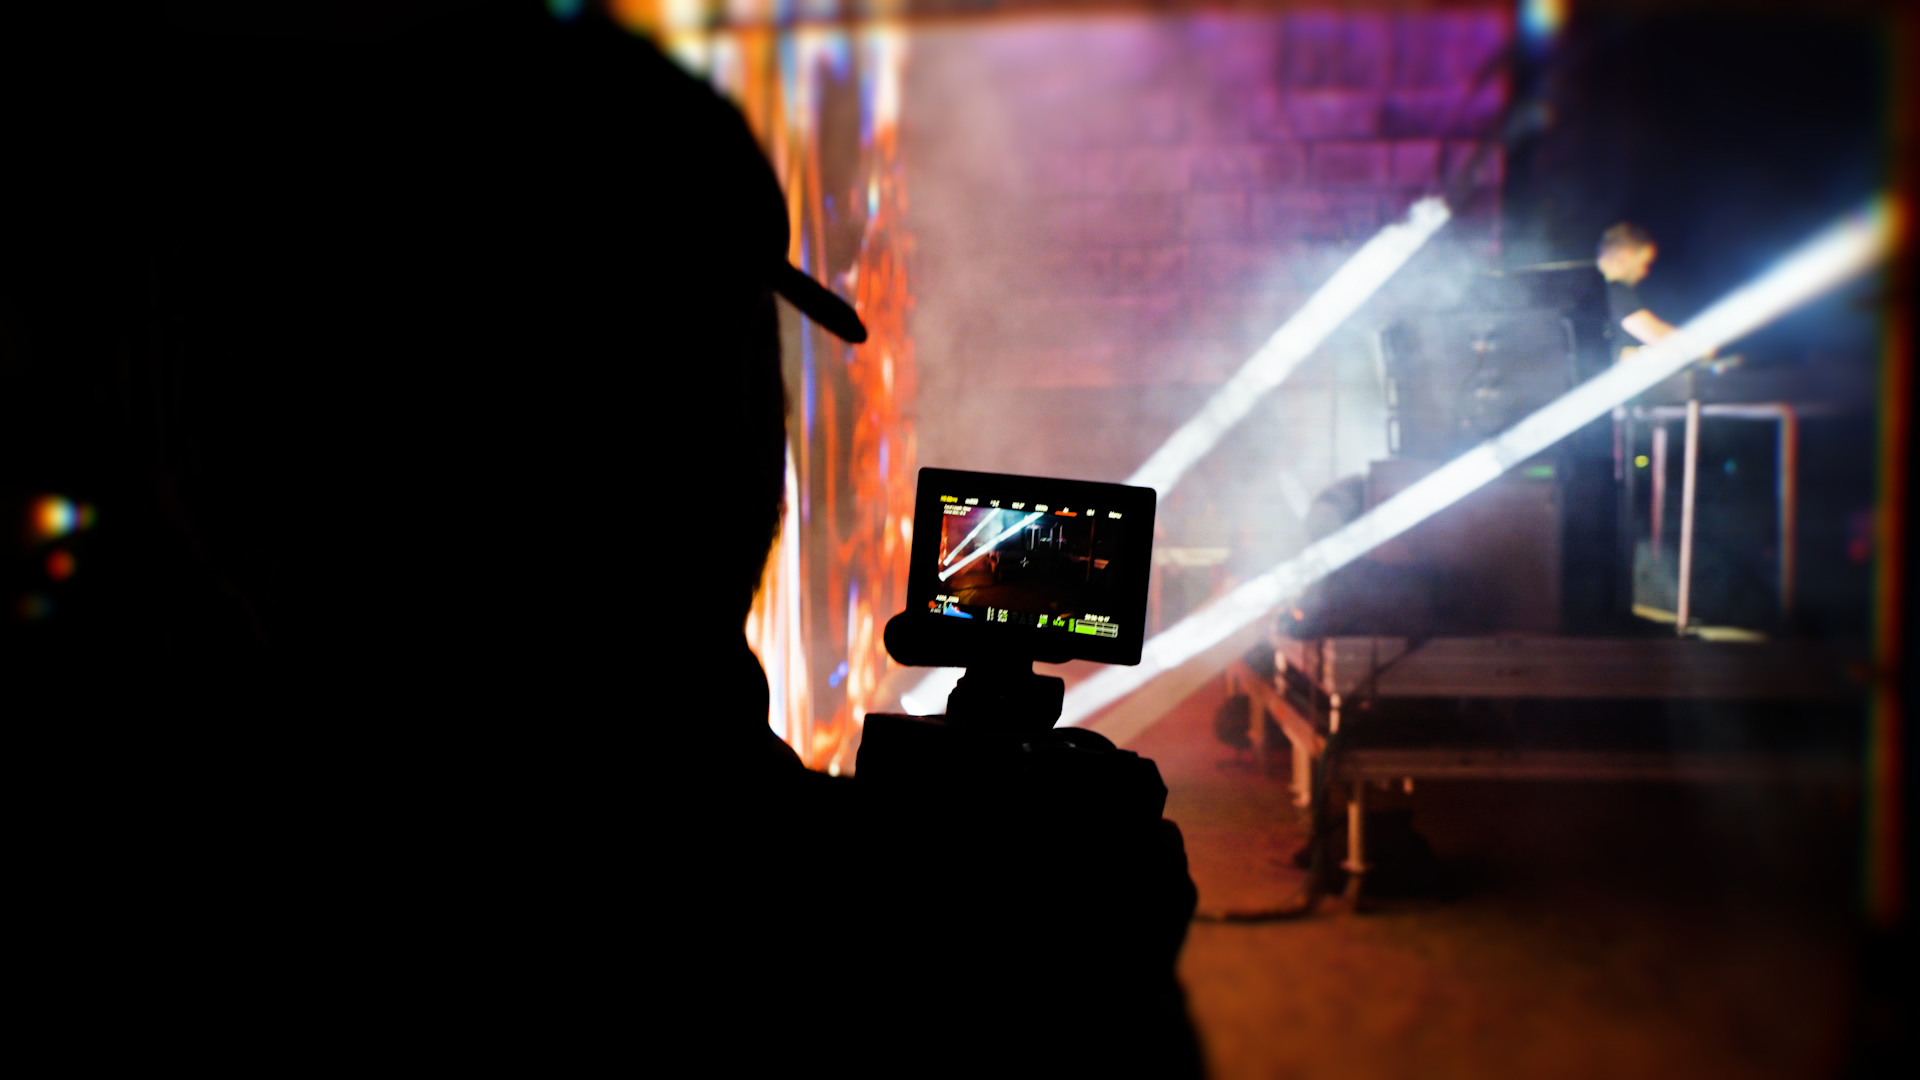
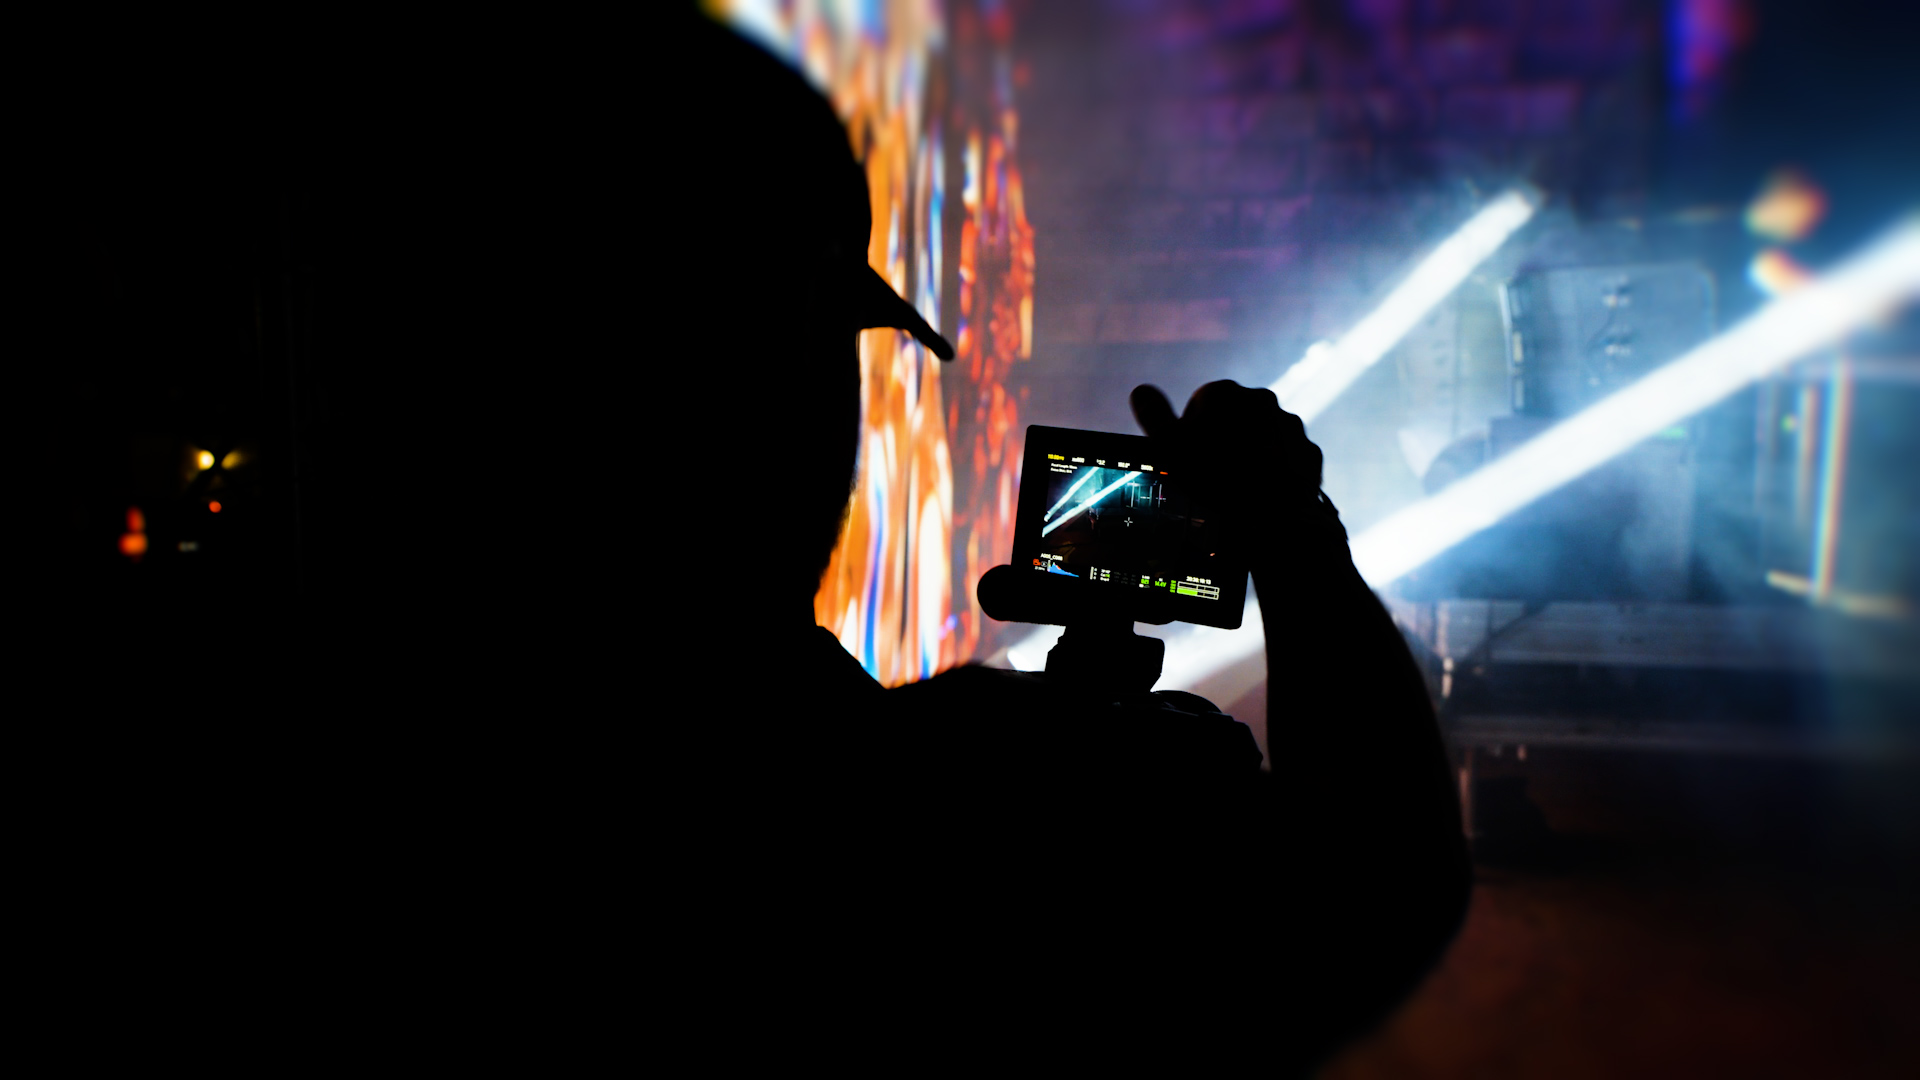
Second Preferred hero, and credit the rail to the shooters
Owner preferred the second frame from the same shoot. Same filename, so no
import changed, which is exactly what made it confusing: Astro caches image
optimisations by filename, so replacing the bytes underneath left both dev
and the browser serving the previous render. Cleared .astro,
node_modules/.astro and dist. Confirmed the right file by md5 rather than by
eye, since the two frames are from the same setup and are near-identical at
thumbnail size.

Three of the four rail frames are now photographer-supplied work, the first
unchanged, and every one carries a credit on hover: handle in white display
type, "Blueprint Preferred" in small blue beneath, matching the portfolio
gallery mechanic. @bytorbs, @epadronmedia, @still.noize, @masoncelum.media.

The new images live in src/assets/images/preferred/ named after the handle,
so the file and the credit cannot drift apart. They arrived at 13MB, 12MB and
53MB and were resampled to 1600x2400 before any commit, so the originals
never entered git history.

Two things the portfolio pattern needed changed. Handles are not uppercased,
because @Still.Noize is not what the account is called. And on touch there is
no hover, where a credit nobody can see is not a credit, so under
@media (hover: none) the captions stay up and the resting dim is lifted.
Handle type also scales with the tile, since a handle has no space to wrap at
and @masoncelum.media broke mid-word in the 2-up mobile rail.

diff --git a/docs/SESSION_LOG.md b/docs/SESSION_LOG.md
@@ -2563,4 +2563,58 @@ overflow, copy legible over the brighter crop.
 
 ---
 
+## Session 26 — 2026-10-12 — Second hero, and the rail becomes credited work
+
+### Hero swapped again
+
+Owner preferred the second frame from the same shoot. Same filename
+(`hero/blueprint-preferred.jpg`), so no import changed.
+
+**Astro cached the old optimisation.** Replacing a source image while keeping
+its filename does not invalidate the image cache, and both dev and the browser
+kept serving the previous render. Cleared `.astro`, `node_modules/.astro` and
+`dist`, then rebuilt. Confirmed by md5 rather than by eye, which mattered here:
+the two frames are from the same setup and look near-identical at thumbnail
+size, so a screenshot could not settle it.
+
+Worth remembering: **swap an image's bytes under the same name and you must
+clear the Astro image cache**, or use a new filename.
+
+### The rail is now the network's own work, credited
+
+Three of the four frames replaced with photographer-supplied shots. The first
+is unchanged. All four carry a credit on hover, matching the portfolio gallery
+mechanic exactly: handle in white display type, "Blueprint Preferred™" in
+small blue beneath, over a bottom-up gradient.
+
+| Frame | Credit |
+|-------|--------|
+| crowd, kept | @bytorbs |
+| fisheye stage | @epadronmedia |
+| red and magenta LED | @still.noize |
+| blue stage | @masoncelum.media |
+
+New images live in `src/assets/images/preferred/`, named after the handle, so
+file and credit cannot drift apart. They arrived at 13MB, 12MB and 53MB and
+were resampled to 1600x2400 (0.8 to 1.3MB) before any commit, so the originals
+never entered git history.
+
+### Two details the hover pattern needed changing for
+
+- **Handles are not uppercased**, unlike the portfolio captions. @Still.Noize
+  is not what the account is called.
+- **On touch there is no hover**, and a credit nobody can see is not a credit.
+  Under `@media (hover: none)` the captions simply stay up, and the resting
+  image dimming is lifted since there is no hover state to reward.
+
+Handle type also scales with the tile: at a fixed size, "@masoncelum.media"
+has no space to wrap at and broke mid-word in the 2-up mobile rail.
+
+### Verified
+
+17 pages. Hover reveals the credit on desktop; on mobile all four show
+permanently, each on a single line, no overflow at 375.
+
+---
+
 *Add a new section above this line each session. Keep entries short and decision-focused — this is a context primer, not a changelog (use `git log` for that).*
